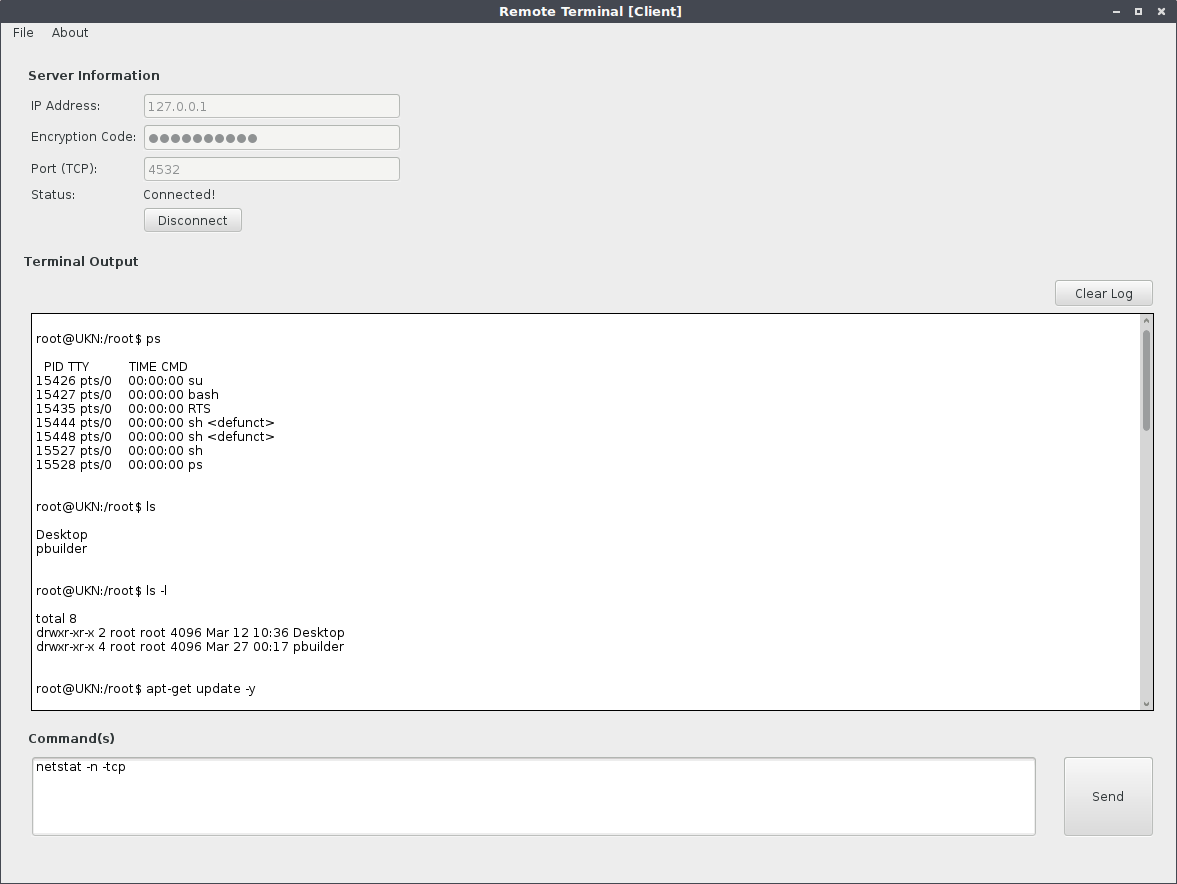
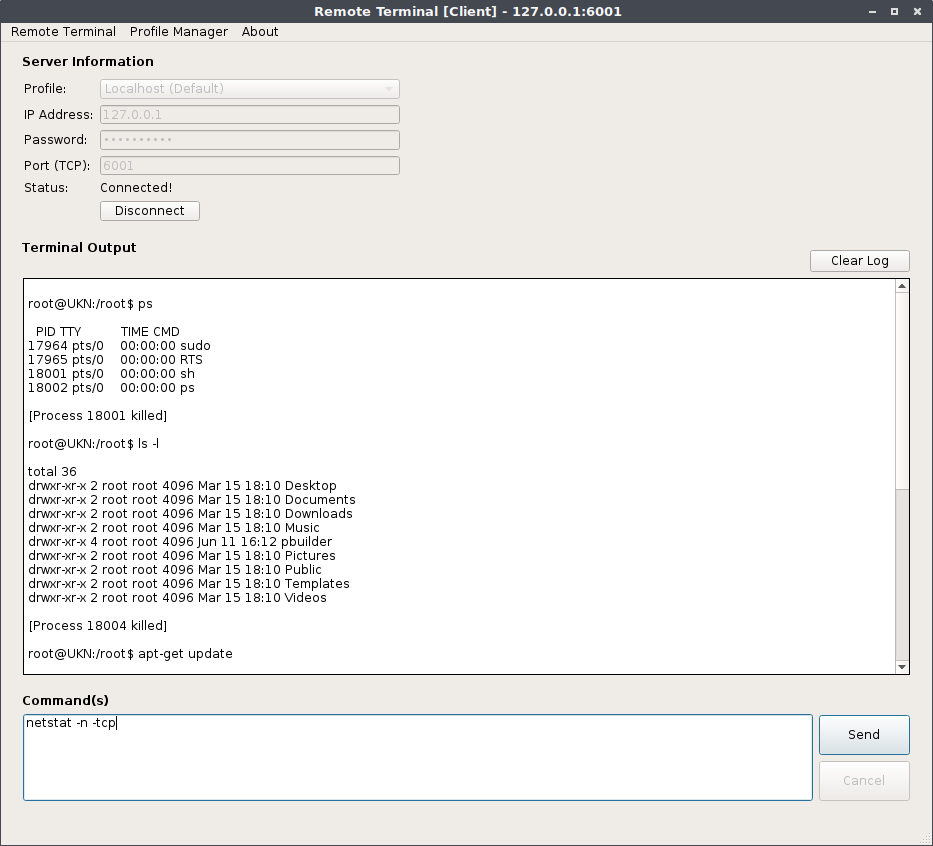
- Changelog.md and README.md updates - Screenshot updates

diff --git a/remote-terminal-server/src/main.cpp b/remote-terminal-server/src/main.cpp
@@ -406,11 +406,7 @@ void HandleClientPipe(unsigned short socketID)
         bytesRead = read(ClientConsole[socketID].pipeChildToParent[0], readPipeBuffer, 512);
         if (bytesRead == -1 && errno == EAGAIN)  // No data available from pipe
         {
-            if((commandWaitTimer > 6000 && !processOpen) || (totalPipeBytes < 512 && !processOpen)) // No data left in pipe
-            {
-                break;
-            }
-            else if(commandWaitTimer > 1000 && processOpen)
+            if(commandWaitTimer > 1000 && processOpen)
             {
                 proc = fopen(processPath,"r"); // Check to see if process is running
 

diff --git a/changelog.md b/changelog.md
@@ -1,14 +1,19 @@
-remote-terminal-client (0.1.5-1) stable; urgency=low
+remote-terminal-client (0.2.0-1) stable; urgency=low
 
-  * Updated Qt version to 5.7.1 for the client application
-  
-  * Set hash filter to SHA512 for the client and server application
-  
-  * Updated the encryption method of Remote Terminal to AES-256 (GCM)
+  * Server application: Fix to allow the server to reuse a previous port if the application was closed and then reopened. [Bug]
+  * Server application: Client socket shutdown fixes. [Bug]
+  * Server application: Change directory command fixes. [Bug]
+  * Server application: Added ability to send additional input to an executed process. [Feature]
+  * Server application: Added ability to inform the user which process id was killed. [Feature]
 
-  * Fixed a decryption issue on client application where EOT code was failing to be decrypted.
+  * Client application: Fix to prevent main form from freezing on connecting. [Bug]
+  * Client application: New cancel button, which will allow a user to cancel running processes. [Feature]
+  * Client application: Send button has been separated from the cancel button to enable a user to send follow-up commands in response to a previous command. [Feature]
+  * Client application: New profile manager form. [Feature]
+  * Client application: Ability to select a profile on the main form. [Feature]
+  * Client application: Ability to save the previous profile selection on form close event. [Feature]
+  * Client application: Ability to load the previous profile selection on form open event. [Feature]
+  * Client application: Settings integration (with encryption). [Feature]
 
-  * Optimisation/readability fixes
-
- -- Matthew James <admin@mjsware.co.uk>  Sat, 25 Jun 2017 19:43:39 +0100
+ -- Matthew James <admin@mjsware.co.uk>  Sat, 13 Aug 2017 16:43:39 +0100
  

diff --git a/README.md b/README.md
@@ -20,7 +20,7 @@ Remote Terminal [Server]:
 
 Version Number: 0.2.0
 
-Dated : 
+Dated : 13-08-2017
 
 #### Features in the current version
 
